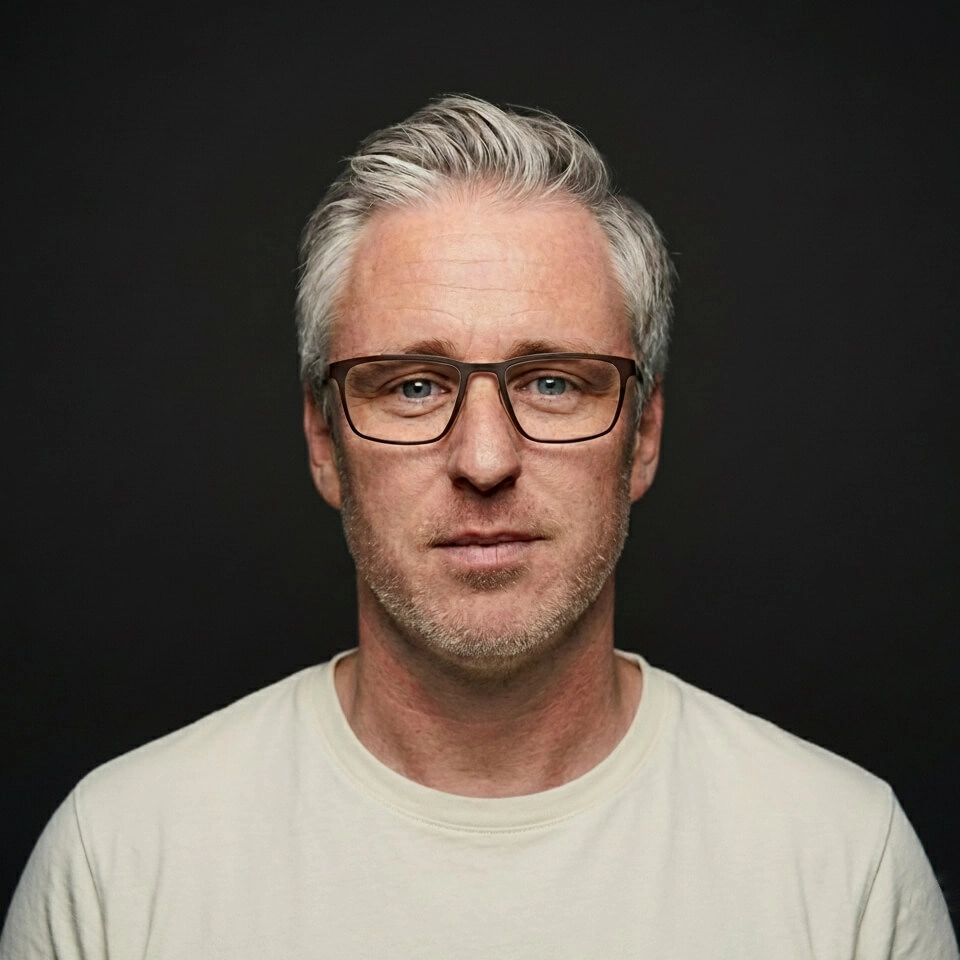
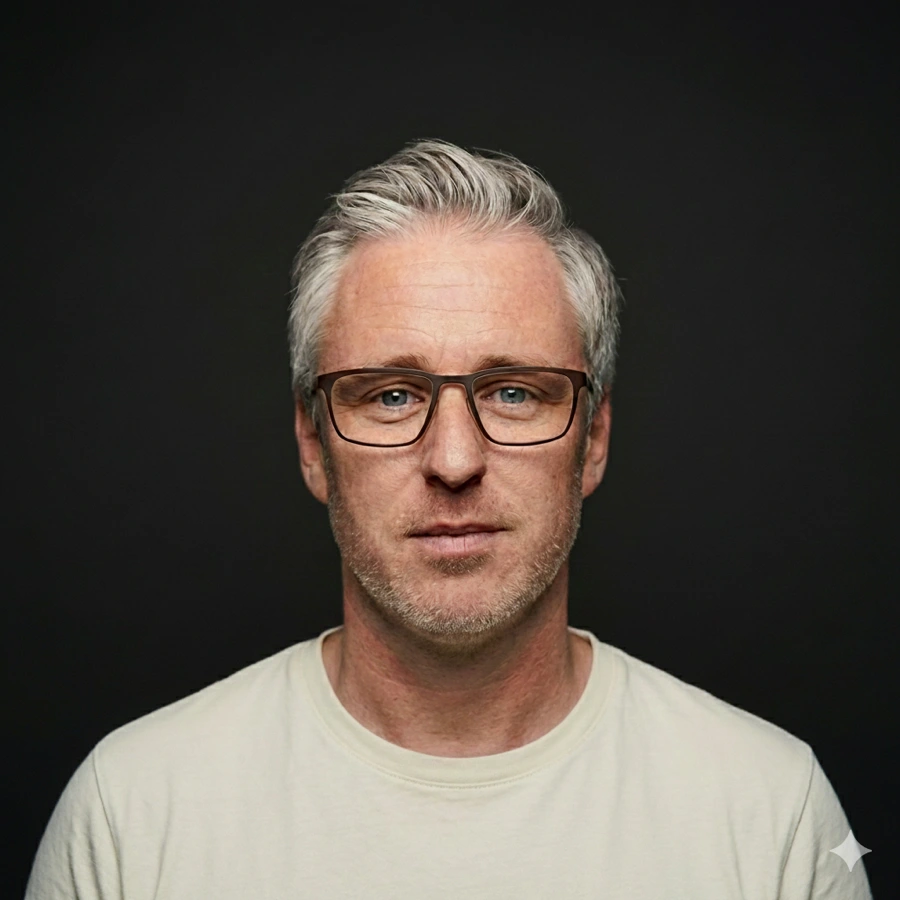
Perf: AVIF + neu encodierte WebP aus PNG-Master (−45% bis −72%)
Profilfoto-Master (1024×1024, lossless PNG) ins Repo aufgenommen und
daraus neu erzeugt:
- 3× AVIF (q=80) für moderne Browser (−72% vs. alt)
- 3× WebP (q=93) als Fallback (−45% vs. alt)

Bytes für 960w: 141 KB → 40 KB (AVIF) bzw. 77 KB (WebP). Die alten
WebPs waren q≈95+ encodiert — das war bewusst konservativ, aber bei
Option B (visuelle Parität zum alten Stand) sparen wir trotzdem
deutlich, weil die neue Quelle first-generation aus dem PNG ist und
keine Transcode-Verluste hat.

<img> in index.php + about/index.php durch <picture> mit AVIF-Source,
WebP-Source und Fallback-<img> ersetzt. images/build.sh regeneriert
alle Varianten reproduzierbar aus dem Master.

Changed region(s): [[0.0, 0.0933, 1.0, 1.0]]

diff --git a/index.php b/index.php
@@ -370,15 +370,22 @@ if ($overlay === 'impressum' || $overlay === 'legal' || $overlay === 'kolofon') 
     <div class="container">
         <!-- Profile photo with Easter egg animation (double-click or spacebar).
              fetchpriority=high / decoding=async — LCP-Hero, daher bewusst
-             kein loading=lazy. srcset liefert auf Mobile ~8 KB statt 141 KB. -->
-        <img src="/images/oliver-eichhof.webp"
-             srcset="/images/oliver-eichhof-320.webp 320w, /images/oliver-eichhof-640.webp 640w, /images/oliver-eichhof.webp 960w"
-             sizes="(max-width: 768px) 140px, 160px"
-             width="160" height="160"
-             decoding="async"
-             fetchpriority="high"
-             alt="<?= $e($m['photoAlt']) ?>"
-             class="profile-photo">
+             kein loading=lazy. <picture> liefert AVIF wo möglich, sonst
+             WebP als Fallback. srcset liefert auf Mobile ~2 KB statt 40 KB. -->
+        <picture>
+            <source type="image/avif"
+                    srcset="/images/oliver-eichhof-320.avif 320w, /images/oliver-eichhof-640.avif 640w, /images/oliver-eichhof.avif 960w"
+                    sizes="(max-width: 768px) 140px, 160px">
+            <source type="image/webp"
+                    srcset="/images/oliver-eichhof-320.webp 320w, /images/oliver-eichhof-640.webp 640w, /images/oliver-eichhof.webp 960w"
+                    sizes="(max-width: 768px) 140px, 160px">
+            <img src="/images/oliver-eichhof.webp"
+                 width="160" height="160"
+                 decoding="async"
+                 fetchpriority="high"
+                 alt="<?= $e($m['photoAlt']) ?>"
+                 class="profile-photo">
+        </picture>
 
         <h1 class="name">Oliver Eichhof</h1>
 

diff --git a/about/index.php b/about/index.php
@@ -483,14 +483,20 @@ require_once __DIR__ . '/../includes/asset.php';
     <main id="main" class="grounding-page">
         <a href="<?= $m['homeUrl'] ?>" class="grounding-back">&larr; <?= $e($m['backText']) ?></a>
 
-        <img src="/images/oliver-eichhof.webp"
-             srcset="/images/oliver-eichhof-320.webp 320w, /images/oliver-eichhof-640.webp 640w, /images/oliver-eichhof.webp 960w"
-             sizes="120px"
-             width="120" height="120"
-             decoding="async"
-             fetchpriority="high"
-             alt="<?= $e($m['photoAlt']) ?>"
-             class="profile-photo">
+        <picture>
+            <source type="image/avif"
+                    srcset="/images/oliver-eichhof-320.avif 320w, /images/oliver-eichhof-640.avif 640w, /images/oliver-eichhof.avif 960w"
+                    sizes="120px">
+            <source type="image/webp"
+                    srcset="/images/oliver-eichhof-320.webp 320w, /images/oliver-eichhof-640.webp 640w, /images/oliver-eichhof.webp 960w"
+                    sizes="120px">
+            <img src="/images/oliver-eichhof.webp"
+                 width="120" height="120"
+                 decoding="async"
+                 fetchpriority="high"
+                 alt="<?= $e($m['photoAlt']) ?>"
+                 class="profile-photo">
+        </picture>
 
         <h1 class="name"><?= $e($m['h1']) ?></h1>
 

diff --git a/README.md b/README.md
@@ -54,9 +54,13 @@ eichhof.me/
 │   └── confetti.min.js     # Canvas-Confetti (lazy-loaded)
 ├── contact.php             # Contact form backend (rate limiting, CSRF, honeypot)
 ├── images/
-│   ├── oliver-eichhof.webp # Profile photo (960w, LCP hero)
-│   ├── oliver-eichhof-320.webp # Responsive variant (mobile srcset)
-│   ├── oliver-eichhof-640.webp # Responsive variant (tablet srcset)
+│   ├── oliver-eichhof.png  # Profile photo master (1024w, lossless — Build-Quelle für WebP/AVIF)
+│   ├── oliver-eichhof.avif # Profile photo (960w, AVIF — primary, ~40 KB)
+│   ├── oliver-eichhof-320.avif # Responsive AVIF (mobile srcset)
+│   ├── oliver-eichhof-640.avif # Responsive AVIF (tablet srcset)
+│   ├── oliver-eichhof.webp # Profile photo (960w, WebP — fallback, ~77 KB)
+│   ├── oliver-eichhof-320.webp # Responsive WebP (mobile srcset)
+│   ├── oliver-eichhof-640.webp # Responsive WebP (tablet srcset)
 │   ├── og-image.png        # Open Graph image for social sharing
 │   ├── favicons/           # Favicon variants (180, 192, 512)
 │   ├── hover/              # Link preview screenshots
